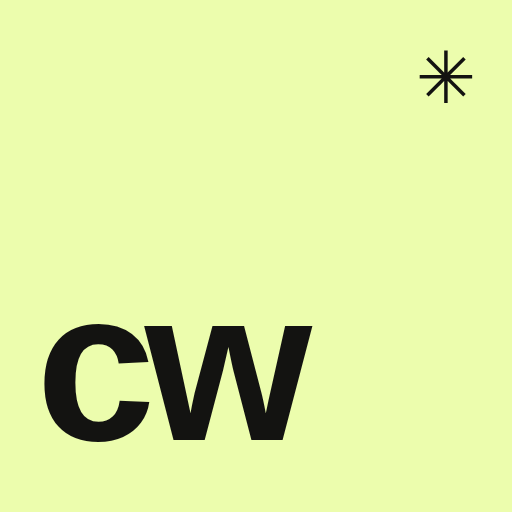
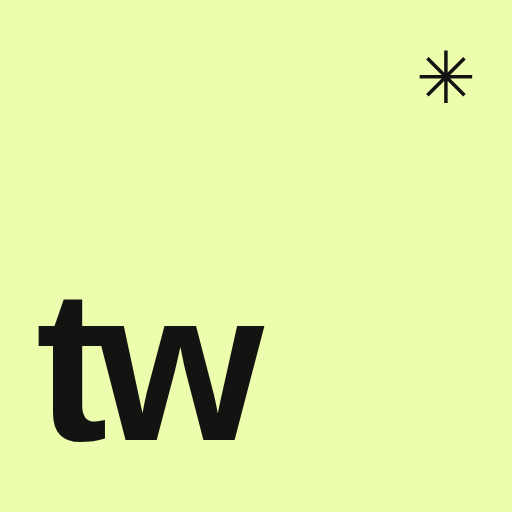
Rebrand: CapsuleW → trawa
Wordmark tra+wa (lime-stroked wa), full-width footer wordmark, title,
manifest, icons (tw monogram), README; localStorage keys unchanged so
existing data carries over

Claude-Session: https://claude.ai/code/session_013GoCYreqGbFVzWbayRPVfF

Changed region(s): [[0.0625, 0.5625, 0.625, 0.875], [0.125, 0.8438, 0.1562, 0.875]]

diff --git a/index.html b/index.html
@@ -3,11 +3,11 @@
 <head>
 <meta charset="UTF-8">
 <meta name="viewport" content="width=device-width, initial-scale=1.0, viewport-fit=cover">
-<title>CapsuleW — Travel Wardrobe</title>
+<title>trawa — travel wardrobe</title>
 <meta name="apple-mobile-web-app-capable" content="yes">
 <meta name="mobile-web-app-capable" content="yes">
 <meta name="apple-mobile-web-app-status-bar-style" content="default">
-<meta name="apple-mobile-web-app-title" content="CapsuleW">
+<meta name="apple-mobile-web-app-title" content="trawa">
 <meta name="theme-color" content="#EAE9E6">
 <link rel="manifest" href="manifest.json">
 <link rel="apple-touch-icon" href="icon.png">
@@ -320,7 +320,7 @@
   /* Giant footer wordmark */
   footer { max-width: none; margin: 44px 0 0; padding: 0 max(18px, 4vw) 30px; overflow: hidden; }
   .giant {
-    font-size: min(17.5vw, 24rem); font-weight: 700; letter-spacing: -.06em;
+    font-size: min(37vw, 44rem); font-weight: 700; letter-spacing: -.06em;
     line-height: .85; border-top: 1px solid var(--rule); padding-top: 20px;
     text-transform: lowercase; white-space: nowrap;
   }
@@ -379,7 +379,7 @@
 <body>
 
 <header>
-  <h1>capsule<span class="hl">w</span><small>Travel wardrobe © anywhere</small></h1>
+  <h1>tra<span class="hl">wa</span><small>Travel wardrobe © anywhere</small></h1>
   <div class="header-actions">
     <button class="btn small ghost" onclick="exportData()">Export</button>
     <button class="btn small ghost" onclick="document.getElementById('importFile').click()">Import</button>
@@ -480,7 +480,7 @@
 </main>
 
 <footer>
-  <div class="giant" aria-hidden="true">capsule<span>w</span></div>
+  <div class="giant" aria-hidden="true">tra<span>wa</span></div>
   <div class="foot-meta"><span>Travel wardrobe</span><span>Pack light ✳ Wear everything</span><span>© 2026</span></div>
 </footer>
 

diff --git a/api/analyze.js b/api/analyze.js
@@ -1,4 +1,4 @@
-// Shared "house" photo analysis for CapsuleW.
+// Shared "house" photo analysis for trawa.
 // Set ANTHROPIC_API_KEY (required) and ACCESS_CODE (optional) in the
 // Vercel project's environment variables. The prompt and schema are
 // fixed server-side so this endpoint can't be repurposed as a general

diff --git a/README.md b/README.md
@@ -1,4 +1,4 @@
-# CapsuleW
+# trawa
 
 A digital capsule wardrobe for people who live out of a suitcase. Capped at a configurable limit (default 33 pieces — a capsule stays a capsule) with per-item weight estimates rolling up to total pack weight. Track every piece of clothing you carry, see every outfit it can make, know exactly how many days you have before laundry becomes urgent, and get honest advice about what to buy — and what to donate.
 
